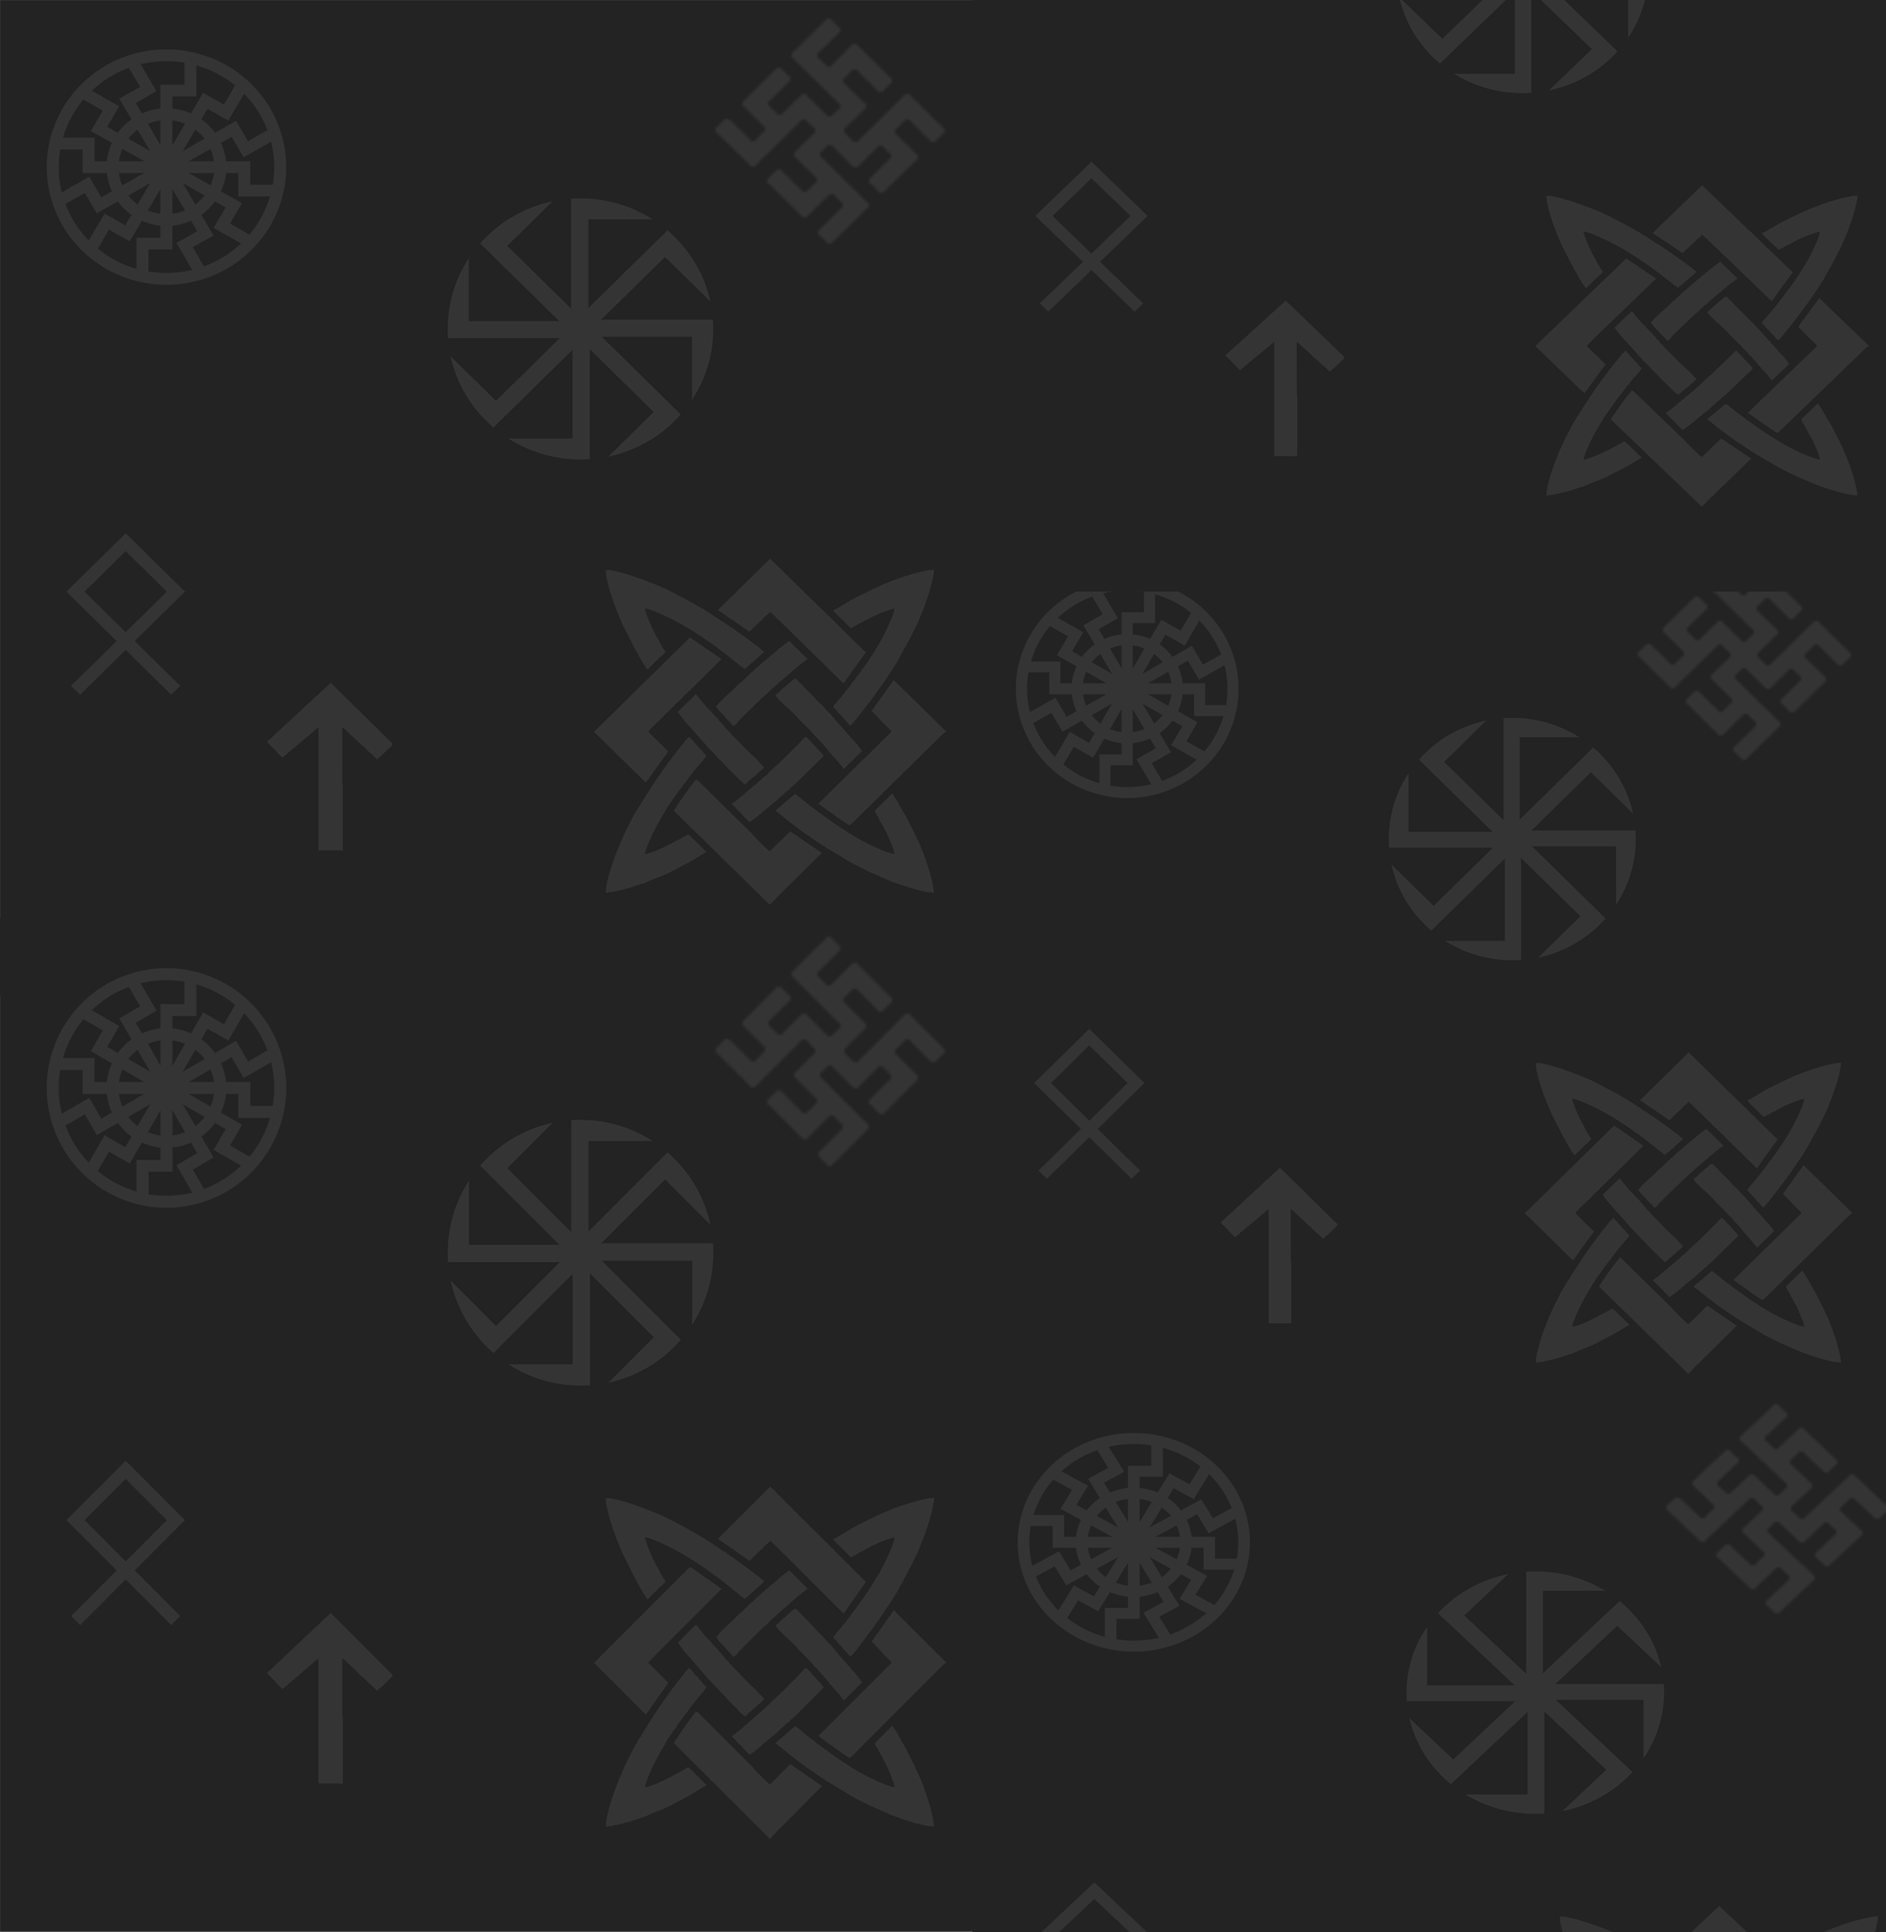
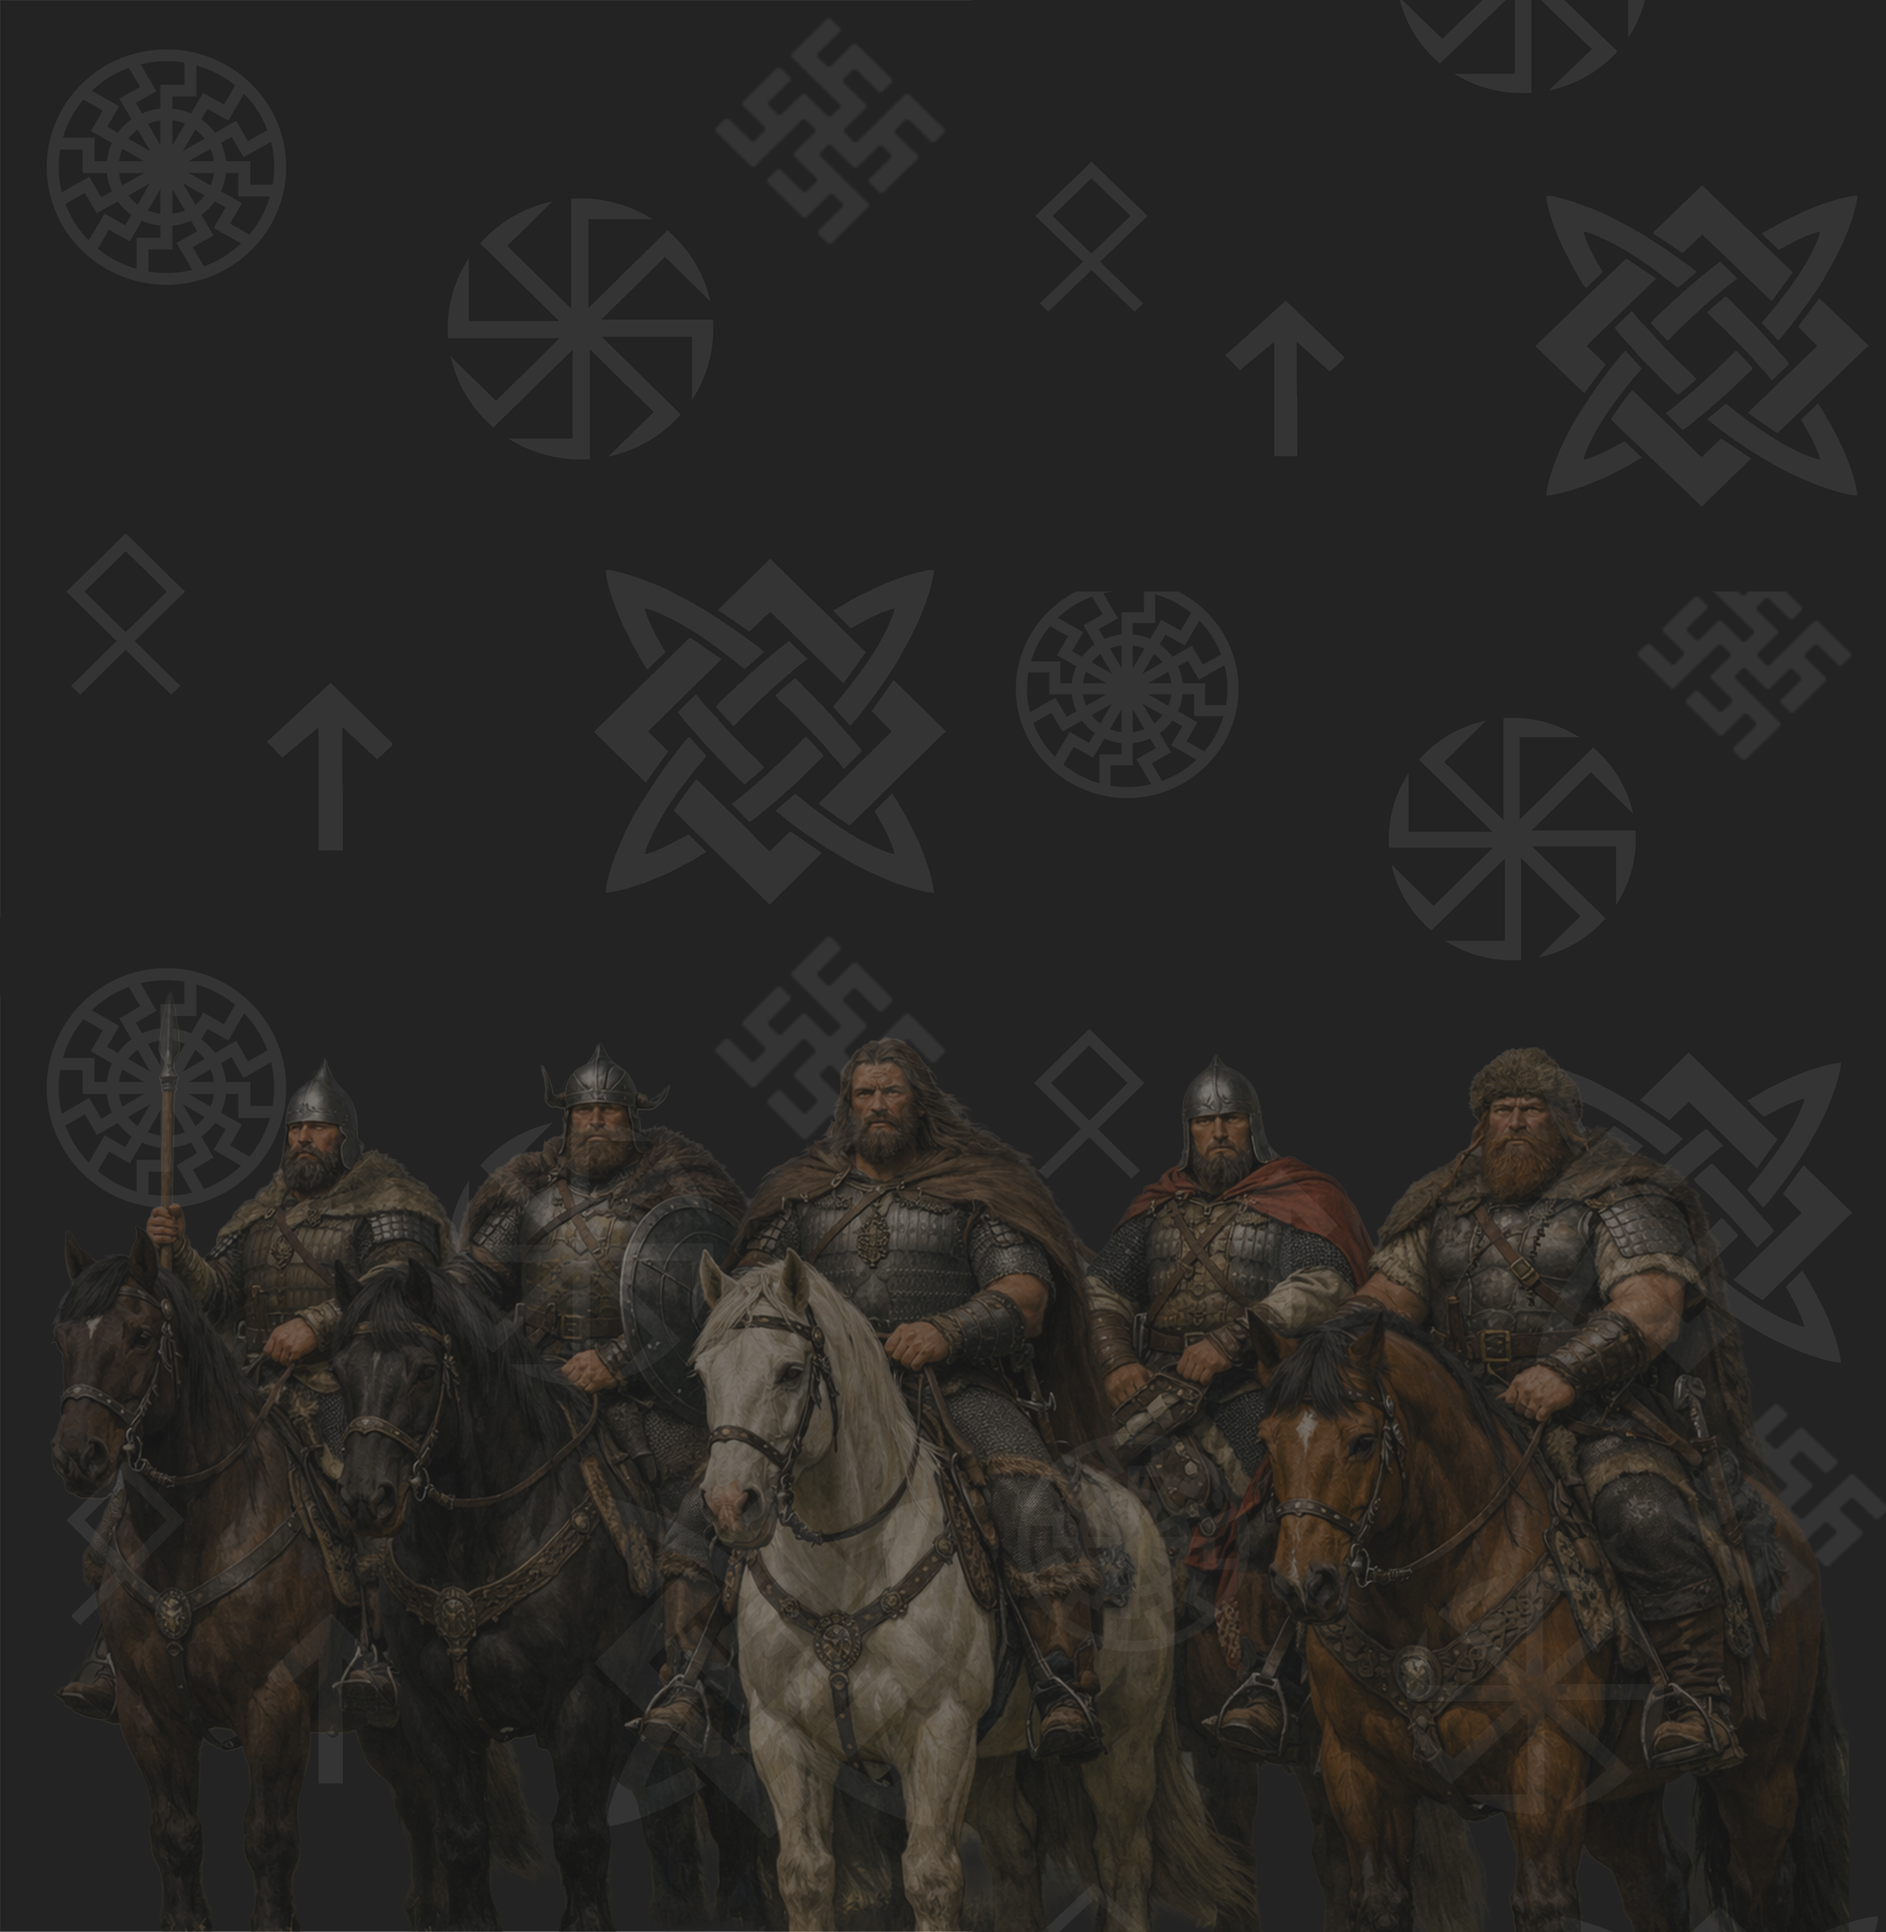
refactor: update background styles to use cover for all sections\n\nUpdate all component backgrounds to use cover for full section stretch

diff --git a/components/header.tsx b/components/header.tsx
@@ -37,9 +37,9 @@ export function Header() {
       style={{
         backgroundColor: 'var(--dark-bg)',
         backgroundImage: 'url(/images/bg-black-pattern.png)',
-        backgroundSize: 'auto',
-        backgroundPosition: 'top left',
-        backgroundRepeat: 'repeat',
+        backgroundSize: 'cover',
+        backgroundPosition: 'center bottom',
+        backgroundRepeat: 'no-repeat',
       }}
     >
       <div className="max-w-7xl mx-auto px-4 sm:px-6 lg:px-8">
@@ -110,9 +110,9 @@ export function Header() {
         style={{
           backgroundColor: 'var(--dark-bg)',
           backgroundImage: 'url(/images/bg-black-pattern.png)',
-          backgroundSize: 'auto',
-          backgroundPosition: 'top left',
-          backgroundRepeat: 'repeat',
+          backgroundSize: 'cover',
+          backgroundPosition: 'center bottom',
+          backgroundRepeat: 'no-repeat',
           borderTop: '1px solid var(--dark-border)'
         }}
       >

diff --git a/app/globals.css b/app/globals.css
@@ -130,15 +130,15 @@
   .bg-pattern-black {
     background-color: var(--dark-bg);
     background-image: url('/images/bg-black-pattern.png');
-    background-size: auto;
-    background-position: top left;
-    background-repeat: repeat;
+    background-size: cover;
+    background-position: center bottom;
+    background-repeat: no-repeat;
   }
   .bg-pattern-grey {
     background-color: var(--dark-surface);
     background-image: url('/images/bg-grey-pattern.png');
-    background-size: auto;
-    background-position: top left;
-    background-repeat: repeat;
+    background-size: cover;
+    background-position: center bottom;
+    background-repeat: no-repeat;
   }
 }

diff --git a/app/schedule-prices/page.tsx b/app/schedule-prices/page.tsx
@@ -21,9 +21,9 @@ export default function SchedulePricesPage() {
           style={{
             backgroundColor: 'var(--dark-bg)',
             backgroundImage: 'url(/images/bg-black-pattern.png)',
-            backgroundSize: 'auto',
-            backgroundPosition: 'top left',
-            backgroundRepeat: 'repeat',
+            backgroundSize: 'cover',
+            backgroundPosition: 'center bottom',
+            backgroundRepeat: 'no-repeat',
           }}
         >
           <div className="max-w-7xl mx-auto">

diff --git a/app/contacts/page.tsx b/app/contacts/page.tsx
@@ -19,9 +19,9 @@ export default function ContactsPage() {
           style={{
             backgroundColor: 'var(--dark-bg)',
             backgroundImage: 'url(/images/bg-black-pattern.png)',
-            backgroundSize: 'auto',
-            backgroundPosition: 'top left',
-            backgroundRepeat: 'repeat',
+            backgroundSize: 'cover',
+            backgroundPosition: 'center bottom',
+            backgroundRepeat: 'no-repeat',
           }}
         >
           <div className="max-w-7xl mx-auto">

diff --git a/app/coaches/page.tsx b/app/coaches/page.tsx
@@ -20,9 +20,9 @@ export default function CoachesPage() {
           style={{
             backgroundColor: 'var(--dark-bg)',
             backgroundImage: 'url(/images/bg-black-pattern.png)',
-            backgroundSize: 'auto',
-            backgroundPosition: 'top left',
-            backgroundRepeat: 'repeat',
+            backgroundSize: 'cover',
+            backgroundPosition: 'center bottom',
+            backgroundRepeat: 'no-repeat',
           }}
         >
           <div className="max-w-7xl mx-auto">

diff --git a/components/contacts/contacts-content.tsx b/components/contacts/contacts-content.tsx
@@ -66,9 +66,9 @@ export function ContactsContent() {
         style={{
           backgroundColor: 'var(--dark-bg)',
           backgroundImage: 'url(/images/bg-black-pattern.png)',
-          backgroundSize: 'auto',
-          backgroundPosition: 'top left',
-          backgroundRepeat: 'repeat',
+          backgroundSize: 'cover',
+          backgroundPosition: 'center bottom',
+          backgroundRepeat: 'no-repeat',
         }}
       >
         <div className="max-w-7xl mx-auto px-4 sm:px-6 lg:px-8">

diff --git a/components/schedule/pricing-section.tsx b/components/schedule/pricing-section.tsx
@@ -155,9 +155,9 @@ export function PricingSection() {
       style={{
         backgroundColor: 'var(--dark-bg)',
         backgroundImage: 'url(/images/bg-black-pattern.png)',
-        backgroundSize: 'auto',
-        backgroundPosition: 'top left',
-        backgroundRepeat: 'repeat',
+        backgroundSize: 'cover',
+        backgroundPosition: 'center bottom',
+        backgroundRepeat: 'no-repeat',
       }}
     >
       <div className="max-w-7xl mx-auto px-4 sm:px-6 lg:px-8">

diff --git a/components/home/reviews-section.tsx b/components/home/reviews-section.tsx
@@ -62,9 +62,9 @@ export function ReviewsSection() {
       style={{
         backgroundColor: 'var(--dark-bg)',
         backgroundImage: 'url(/images/bg-black-pattern.png)',
-        backgroundSize: 'auto',
-        backgroundPosition: 'top left',
-        backgroundRepeat: 'repeat',
+        backgroundSize: 'cover',
+        backgroundPosition: 'center bottom',
+        backgroundRepeat: 'no-repeat',
       }}
     >
       <div className="max-w-7xl mx-auto px-4 sm:px-6 lg:px-8">

diff --git a/components/footer.tsx b/components/footer.tsx
@@ -8,9 +8,9 @@ export function Footer() {
       style={{
         backgroundColor: 'var(--dark-bg)',
         backgroundImage: 'url(/images/bg-black-pattern.png)',
-        backgroundSize: 'auto',
-        backgroundPosition: 'top left',
-        backgroundRepeat: 'repeat',
+        backgroundSize: 'cover',
+        backgroundPosition: 'center bottom',
+        backgroundRepeat: 'no-repeat',
         borderColor: 'var(--dark-border)',
         color: 'var(--foreground)'
       }}

diff --git a/components/home/why-us-section.tsx b/components/home/why-us-section.tsx
@@ -40,9 +40,9 @@ export function WhyUsSection() {
       style={{
         backgroundColor: 'var(--dark-bg)',
         backgroundImage: 'url(/images/bg-black-pattern.png)',
-        backgroundSize: 'auto',
-        backgroundPosition: 'top left',
-        backgroundRepeat: 'repeat',
+        backgroundSize: 'cover',
+        backgroundPosition: 'center bottom',
+        backgroundRepeat: 'no-repeat',
       }}
     >
       <div className="max-w-7xl mx-auto px-4 sm:px-6 lg:px-8">

diff --git a/components/home/hero-section.tsx b/components/home/hero-section.tsx
@@ -15,9 +15,9 @@ export function HeroSection() {
       style={{
         backgroundColor: 'var(--dark-bg)',
         backgroundImage: 'url(/images/bg-black-pattern.png)',
-        backgroundSize: 'auto',
-        backgroundPosition: 'top left',
-        backgroundRepeat: 'repeat',
+        backgroundSize: 'cover',
+        backgroundPosition: 'center bottom',
+        backgroundRepeat: 'no-repeat',
       }}
     >
       {/* Background image */}

diff --git a/components/home/cta-section.tsx b/components/home/cta-section.tsx
@@ -9,9 +9,9 @@ export function CtaSection() {
       style={{
         backgroundColor: 'var(--dark-bg)',
         backgroundImage: 'url(/images/bg-black-pattern.png)',
-        backgroundSize: 'auto',
-        backgroundPosition: 'top left',
-        backgroundRepeat: 'repeat',
+        backgroundSize: 'cover',
+        backgroundPosition: 'center bottom',
+        backgroundRepeat: 'no-repeat',
       }}
     >
       {/* Gold accent line */}
